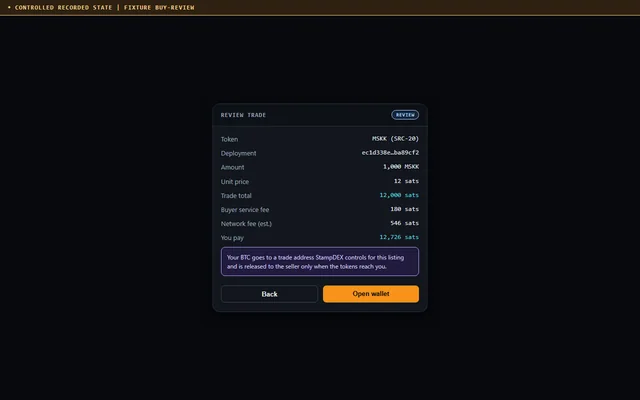
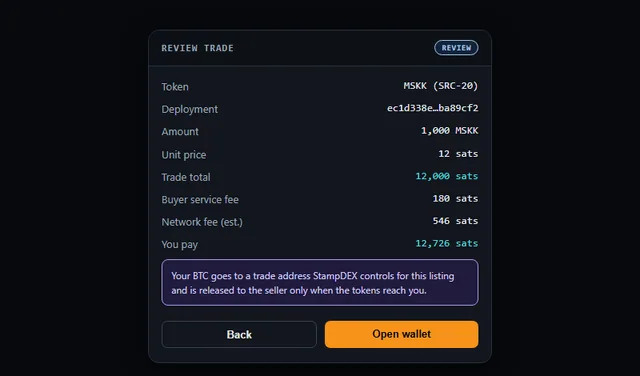
fix: crop buy review product shot

diff --git a/src/lib/screens.ts b/src/lib/screens.ts
@@ -6,7 +6,7 @@ import manifest from '../../screenshots.manifest.json';
 // The build runs from the repository root, and Vite may virtualise module
 // URLs, so resolve the public directory from the working directory.
 const ROOT = process.cwd();
-const WIDTHS = [640, 960, 1400];
+const WIDTHS = [640, 800, 960, 1400];
 
 export interface Capture {
   id: string;
